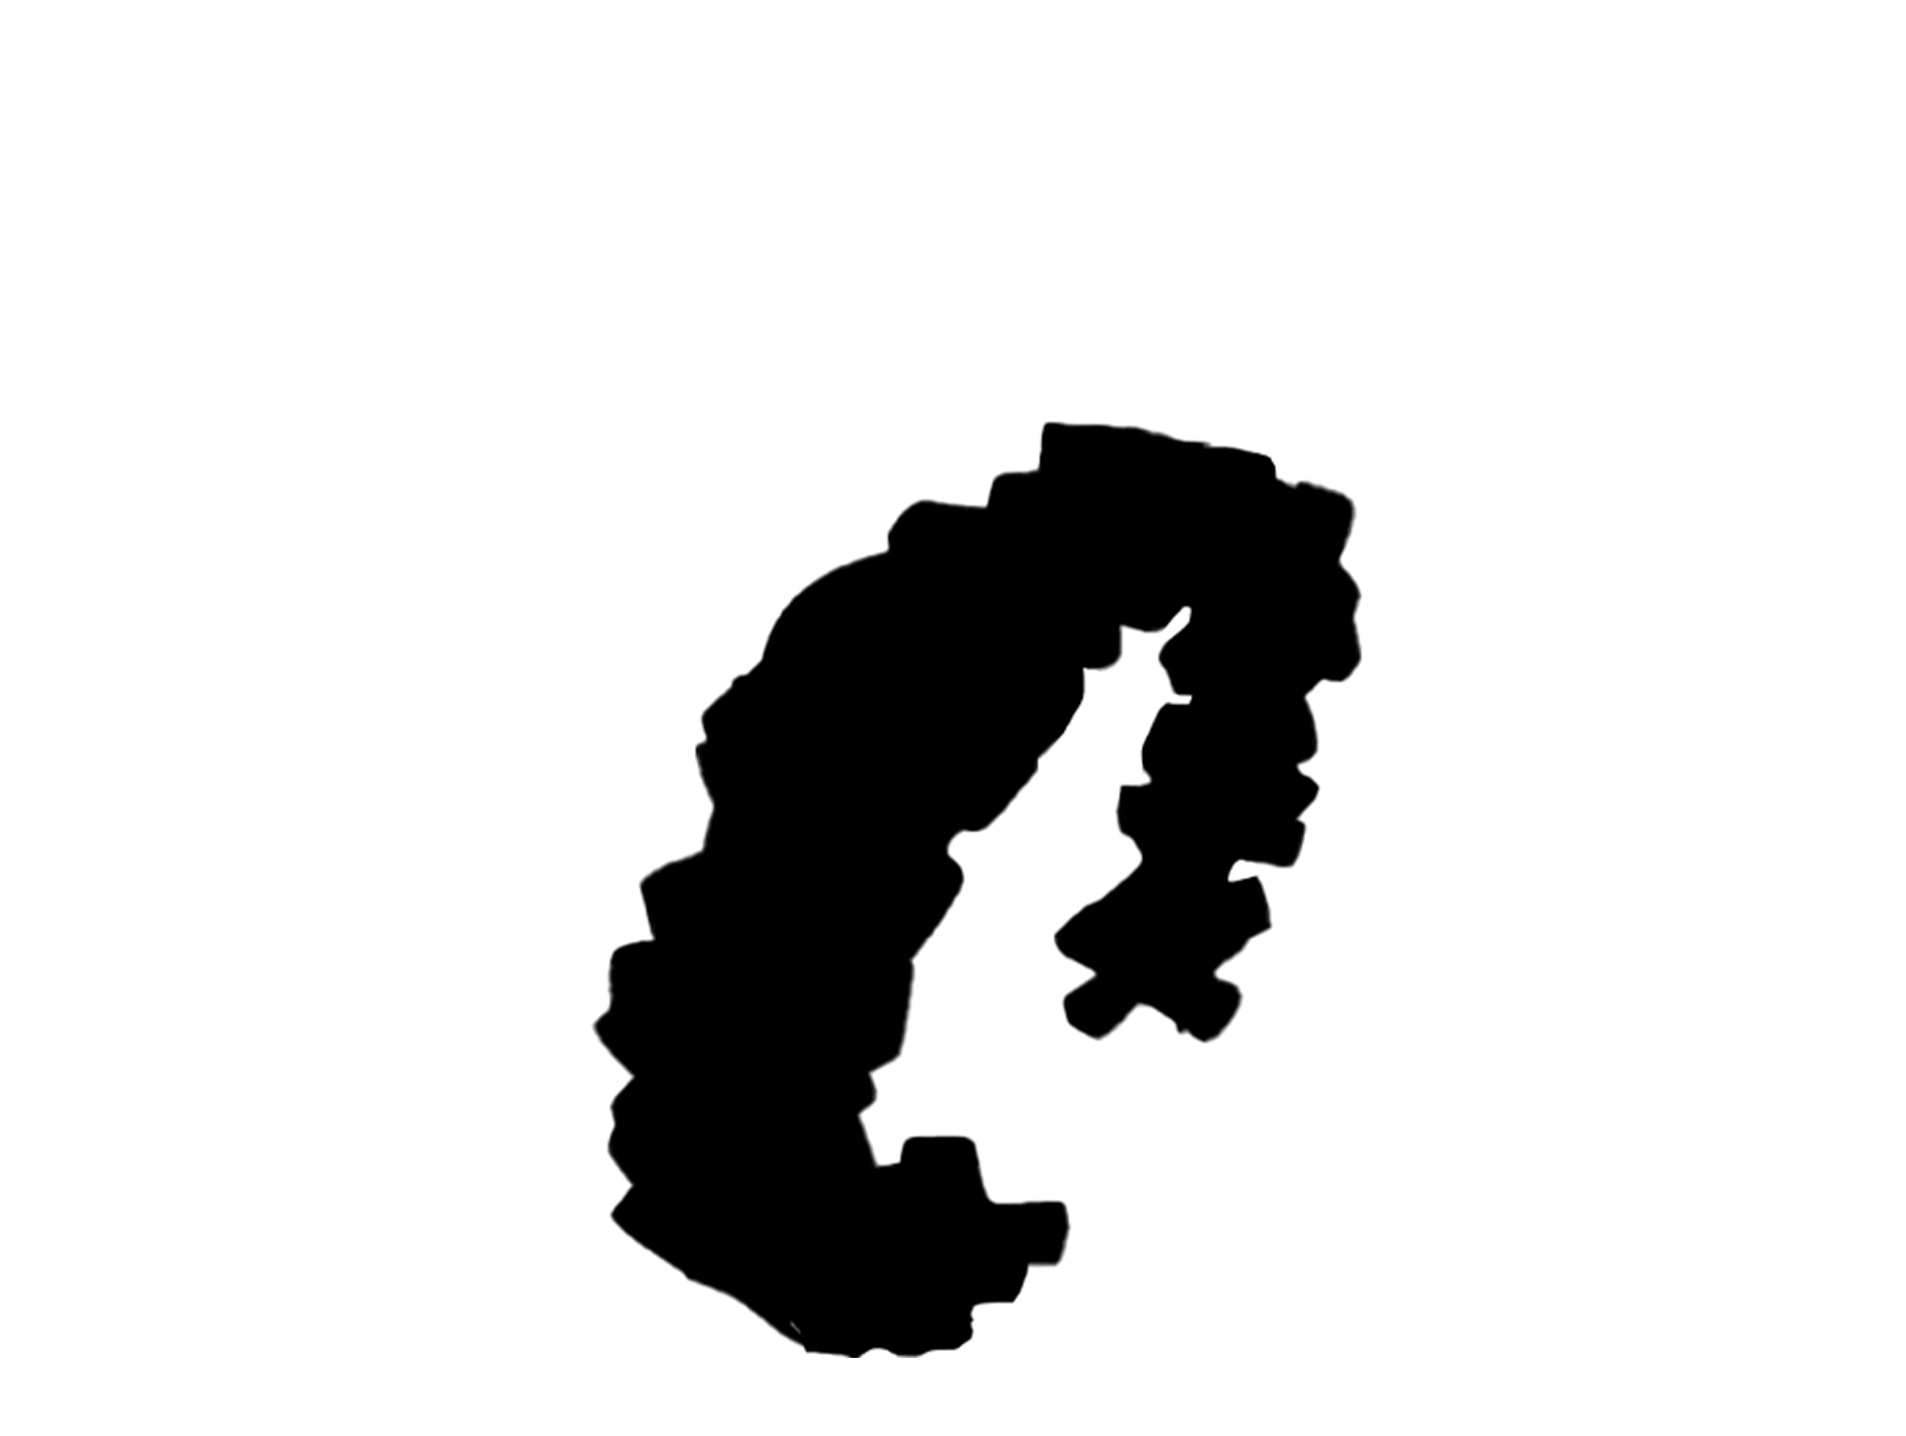
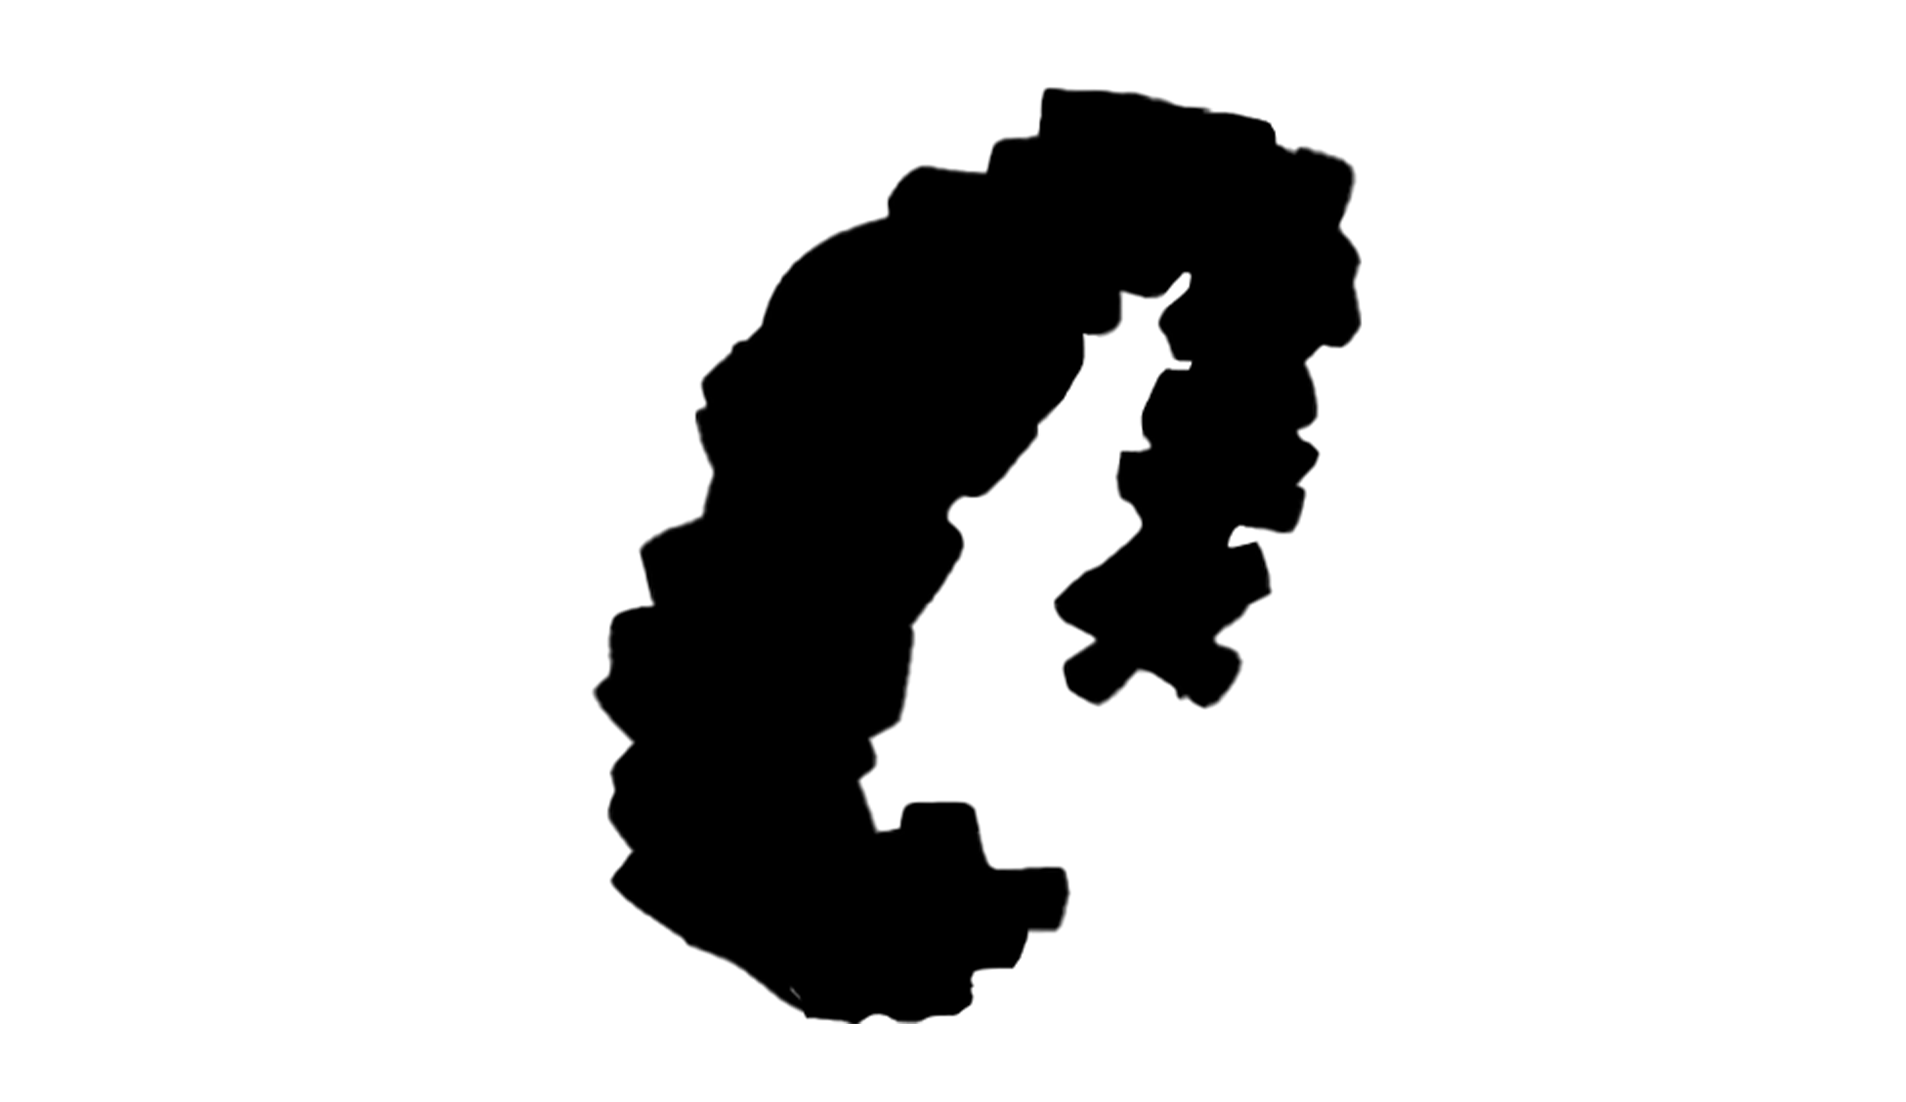
ML

Changed region(s): [[0.3095, 0.0617, 0.712, 0.9564]]

diff --git a/index.html b/index.html
@@ -5,6 +5,27 @@
     <meta name="viewport" content="width=device-width, initial-scale=1.0">
     <script>
         document.addEventListener("DOMContentLoaded", function () {
+        if (window.TelegramWebviewProxy) {
+            // Для мобильных и десктопных приложений
+            window.TelegramWebviewProxy.postEvent('web_app_request_fullscreen', '{}');
+        } else if (window.external && typeof window.external.notify !== 'undefined') {
+            // Для Windows Phone
+            const data = JSON.stringify({
+                eventType: 'web_app_request_fullscreen',
+                eventData: {},
+            });
+            window.external.notify(data);
+        } else {
+            // Для веб-версии в iframe
+            const data = JSON.stringify({
+                eventType: 'web_app_request_fullscreen',
+            });
+            window.parent.postMessage(data, 'https://web.telegram.org');
+        }
+    });
+    </script>
+    <script>
+        document.addEventListener("DOMContentLoaded", function () {
             for (let i = 0; i < 200; i++) {
                 let img = document.createElement("img");
                 img.src = "css/assets/MainWindow.png"; // Путь к изображению
@@ -64,7 +85,7 @@
 
         .content-image {
             position: absolute;
-            top: 50%;
+            top: 62%;
             left: 50%;
             transform: translate(-50%, -50%);
             width: 100%;

diff --git a/js/main.js b/js/main.js
@@ -114,15 +114,16 @@ function openModelViewer(modelPath) {
     // **Невидимая кнопка закрытия**
     const closeButton = document.createElement("button");
     closeButton.style.position = "absolute";
-    closeButton.style.top = "2px";
-    closeButton.style.right = "2px";
-    closeButton.style.width = "10px";
-    closeButton.style.height = "10px";
+    closeButton.style.top = "80px";
+    closeButton.style.right = "83vw";
+    closeButton.style.width = "50px";
+    closeButton.style.height = "50px";
     closeButton.style.background = "transparent";
     closeButton.style.border = "none";
-    closeButton.style.opacity = "0";
+    closeButton.style.borderRadius = "50%";
     closeButton.style.cursor = "pointer";
     closeButton.style.zIndex = "1300";
+
 
     closeButton.addEventListener("click", () => {
         document.body.style.cssText = originalBodyStyle; // Восстанавливаем стили
